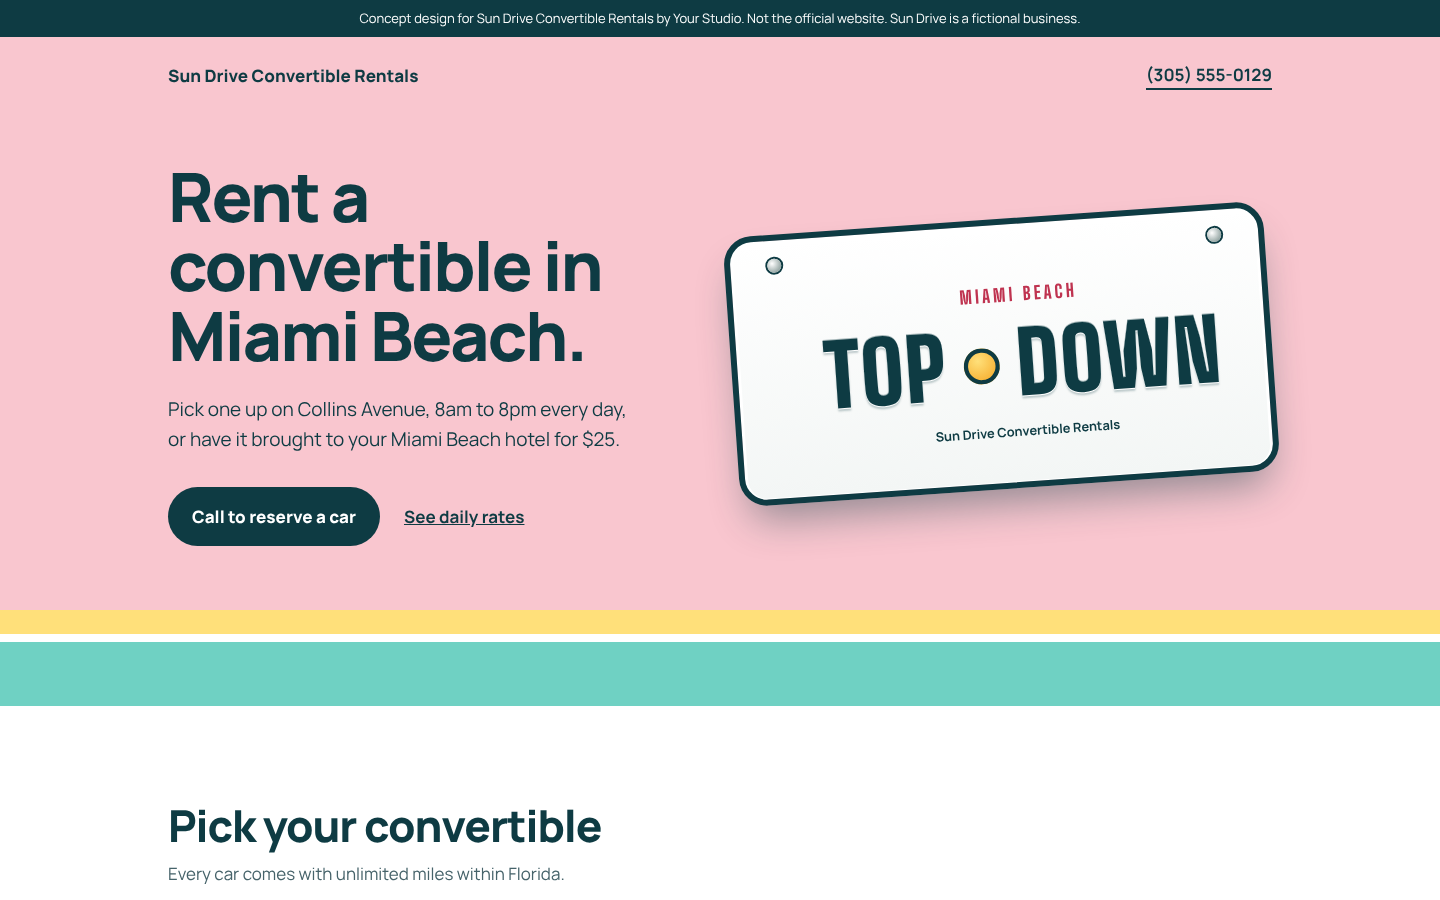
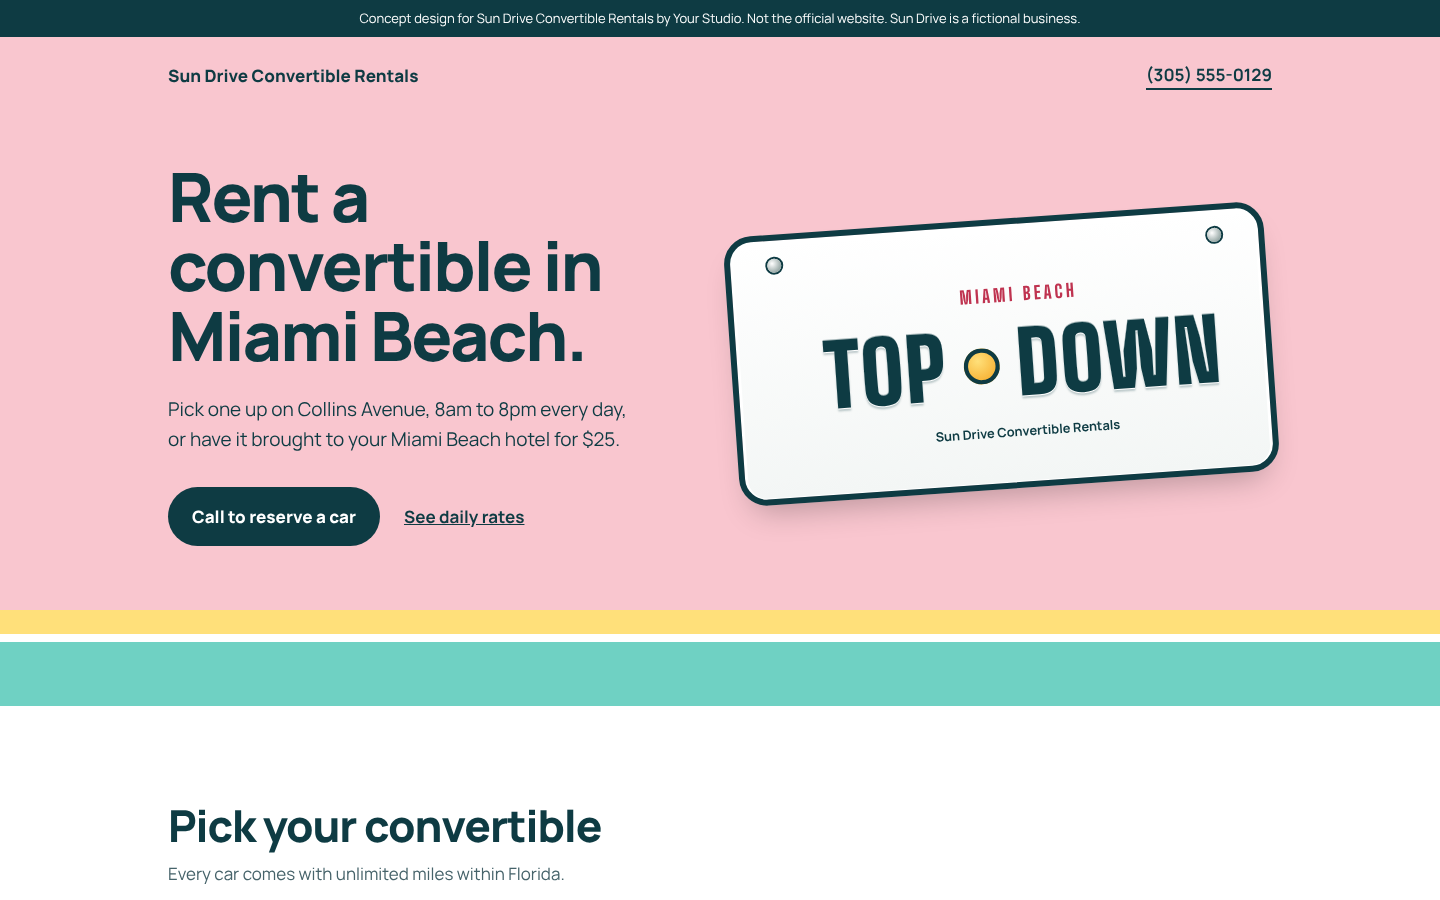
Fix Impeccable detector findings on Sun Drive and Lucky Gator
- Sun Drive: neutral plate shadow instead of tinted glow; smooth ease-out
  instead of bounce on the plate drop
- Lucky Gator: review quote framed like the ticket rows instead of a side stripe

Claude-Session: https://claude.ai/code/session_018sga1XNKWTP4Ak7UfBWrBr

Changed region(s): [[0.5312, 0.5289, 0.875, 0.5911]]

diff --git a/sites/sample-sun-drive/index.html b/sites/sample-sun-drive/index.html
@@ -54,9 +54,9 @@
 
   .plate{position:relative;aspect-ratio:2/1;width:100%;max-width:34rem;justify-self:end;
     background:linear-gradient(180deg,#FFFFFF 0%,#F3F6F5 100%);border:6px solid var(--lagoon);border-radius:28px;
-    box-shadow:0 2px 0 3px #FFFFFF inset,0 24px 40px -12px rgba(14,59,67,.45);
+    box-shadow:0 2px 0 3px #FFFFFF inset,0 18px 32px -14px rgba(0,0,0,.28);
     display:grid;grid-template-rows:auto 1fr auto;padding:4cqi 6cqi 3cqi;text-align:center;container-type:inline-size;
-    transform:rotate(-4deg);animation:mount 1.1s cubic-bezier(.2,.9,.25,1.25) .2s both}
+    transform:rotate(-4deg);animation:mount .9s cubic-bezier(.22,1,.36,1) .2s both}
   @keyframes mount{from{transform:translateY(-140%) rotate(-14deg);opacity:0}to{transform:rotate(-4deg);opacity:1}}
   .plate .bolt{position:absolute;top:7%;width:14px;height:14px;border-radius:50%;background:radial-gradient(circle at 35% 35%,#FFFFFF,#9AAAA8 70%);box-shadow:0 0 0 2px var(--lagoon)}
   .plate .bolt.l{left:7%} .plate .bolt.r{right:7%}

diff --git a/sites/sample-lucky-gator/index.html b/sites/sample-lucky-gator/index.html
@@ -81,7 +81,7 @@
   /* ---------- story ---------- */
   .story .cols{display:grid;grid-template-columns:minmax(0,1fr) minmax(0,1.3fr);gap:2rem 4rem;align-items:start}
   .story p{margin:0 0 1rem;font-size:1.125rem;max-width:34rem}
-  blockquote{margin:1.5rem 0 0;padding:1.25rem 1.5rem;border-left:6px solid var(--flamingo);background:#fff;border-radius:0 .5rem .5rem 0}
+  blockquote{margin:1.5rem 0 0;padding:1.25rem 1.5rem;border:2px solid var(--gator);background:#fff;border-radius:.6rem}
   blockquote p{font:700 1.375rem/1.35 var(--sans)!important;margin:0!important}
   blockquote footer{margin-top:.5rem;color:var(--muted);font-size:.9375rem}
 
